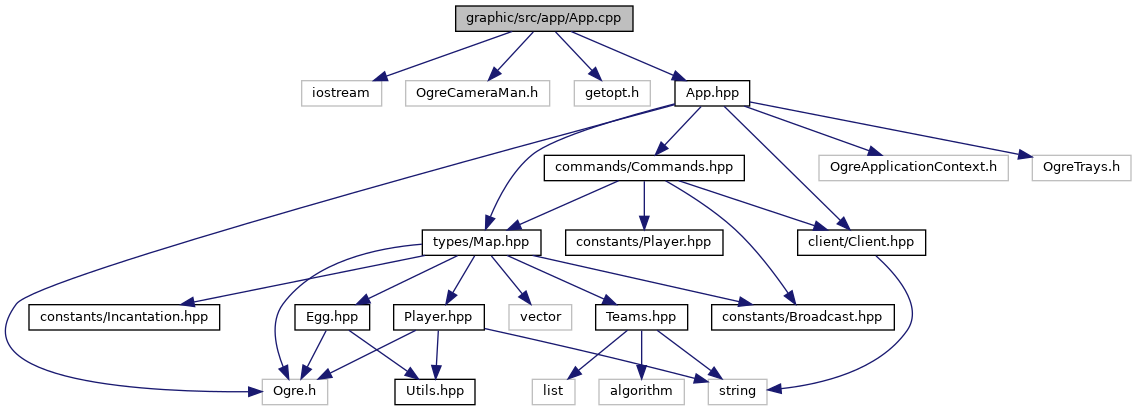
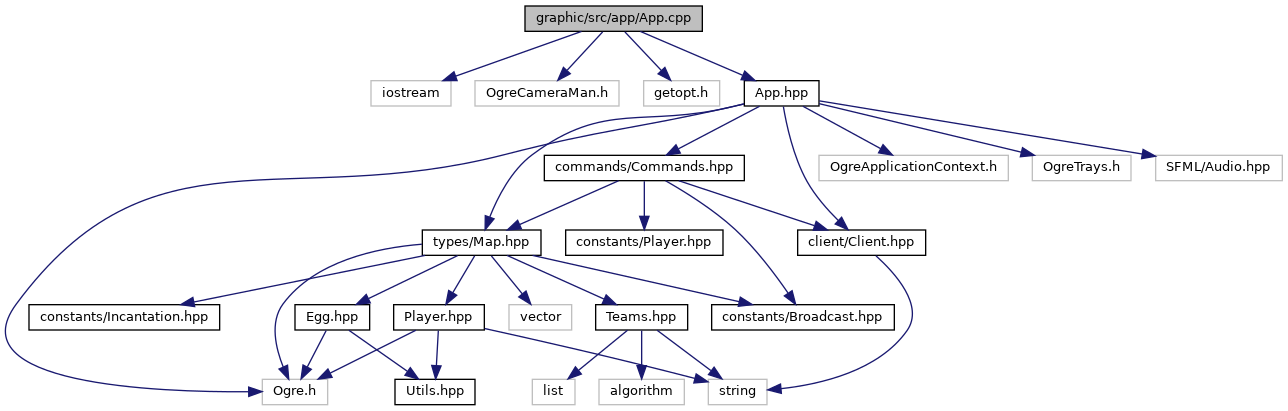
Deploying to gh-pages from @ G-Epitech/DFMY-Zappy@6fedb0bab784ef77f3127b5a26064aef47e51e65 🚀

diff --git a/App_8hpp_source.html b/App_8hpp_source.html
@@ -81,81 +81,88 @@ $(function() {
 <div class="line"><a name="l00016"></a><span class="lineno">   16</span>&#160;<span class="preprocessor">#include &lt;Ogre.h&gt;</span></div>
 <div class="line"><a name="l00017"></a><span class="lineno">   17</span>&#160;<span class="preprocessor">#include &lt;OgreApplicationContext.h&gt;</span></div>
 <div class="line"><a name="l00018"></a><span class="lineno">   18</span>&#160;<span class="preprocessor">#include &lt;OgreTrays.h&gt;</span></div>
-<div class="line"><a name="l00019"></a><span class="lineno">   19</span>&#160;<span class="preprocessor">#include &quot;<a class="code" href="Client_8hpp.html">client/Client.hpp</a>&quot;</span></div>
-<div class="line"><a name="l00020"></a><span class="lineno">   20</span>&#160;<span class="preprocessor">#include &quot;<a class="code" href="Map_8hpp.html">types/Map.hpp</a>&quot;</span></div>
-<div class="line"><a name="l00021"></a><span class="lineno">   21</span>&#160;<span class="preprocessor">#include &quot;<a class="code" href="Commands_8hpp.html">commands/Commands.hpp</a>&quot;</span></div>
-<div class="line"><a name="l00022"></a><span class="lineno">   22</span>&#160; </div>
-<div class="line"><a name="l00023"></a><span class="lineno"><a class="line" href="classApp.html">   23</a></span>&#160;<span class="keyword">class </span><a class="code" href="classApp.html">App</a> : <span class="keyword">public</span> OgreBites::ApplicationContext, <span class="keyword">public</span> OgreBites::InputListener {</div>
-<div class="line"><a name="l00024"></a><span class="lineno">   24</span>&#160;<span class="keyword">public</span>:</div>
-<div class="line"><a name="l00025"></a><span class="lineno">   25</span>&#160; </div>
-<div class="line"><a name="l00026"></a><span class="lineno">   26</span>&#160;    <span class="comment">// @brief Options of the application</span></div>
-<div class="line"><a name="l00027"></a><span class="lineno"><a class="line" href="structApp_1_1Options.html">   27</a></span>&#160;    <span class="keyword">typedef</span> <span class="keyword">struct </span><a class="code" href="structApp_1_1Options.html">Options</a> {</div>
-<div class="line"><a name="l00028"></a><span class="lineno">   28</span>&#160;        <span class="comment">// @brief Host of the server</span></div>
-<div class="line"><a name="l00029"></a><span class="lineno"><a class="line" href="group__graphic__app.html#gafd98e218ec25273b0e3918a06d4c1680">   29</a></span>&#160;        std::string <a class="code" href="group__graphic__app.html#gafd98e218ec25273b0e3918a06d4c1680">host</a>;</div>
-<div class="line"><a name="l00030"></a><span class="lineno">   30</span>&#160;        <span class="comment">// @brief Port of the server</span></div>
-<div class="line"><a name="l00031"></a><span class="lineno"><a class="line" href="group__graphic__app.html#gacc12f8ef0d098cc356916396c06f3095">   31</a></span>&#160;        <span class="keywordtype">int</span> <a class="code" href="group__graphic__app.html#gacc12f8ef0d098cc356916396c06f3095">port</a>;</div>
-<div class="line"><a name="l00032"></a><span class="lineno"><a class="line" href="group__graphic__app.html#gaab167e9ad115fd61bff470c31e5d380c">   32</a></span>&#160;    } <a class="code" href="group__graphic__app.html#gaab167e9ad115fd61bff470c31e5d380c">Options</a>;</div>
-<div class="line"><a name="l00033"></a><span class="lineno">   33</span>&#160; </div>
-<div class="line"><a name="l00037"></a><span class="lineno">   37</span>&#160;    <a class="code" href="group__graphic__app.html#gacb8cbf3e285b91d0170ffe87df5989c5">App</a>();</div>
-<div class="line"><a name="l00038"></a><span class="lineno">   38</span>&#160; </div>
-<div class="line"><a name="l00042"></a><span class="lineno">   42</span>&#160;    <span class="keywordtype">void</span> <a class="code" href="group__graphic__app.html#gaf41416c277fed01fe9c96c437afd41dc">setup</a>() <span class="keyword">override</span>;</div>
-<div class="line"><a name="l00043"></a><span class="lineno">   43</span>&#160; </div>
-<div class="line"><a name="l00050"></a><span class="lineno">   50</span>&#160;    <span class="keywordtype">bool</span> <a class="code" href="group__graphic__app.html#ga1cbe79e1660af8ef17f5a3fb948e7f66">parseOptions</a>(<span class="keywordtype">int</span> ac, <span class="keywordtype">char</span> **av);</div>
-<div class="line"><a name="l00051"></a><span class="lineno">   51</span>&#160; </div>
-<div class="line"><a name="l00056"></a><span class="lineno">   56</span>&#160;    <span class="keywordtype">bool</span> <a class="code" href="group__graphic__app.html#ga26cb4a0f0e6b4b5622c5188b6a51c7ce">establishConnection</a>();</div>
-<div class="line"><a name="l00057"></a><span class="lineno">   57</span>&#160; </div>
-<div class="line"><a name="l00063"></a><span class="lineno">   63</span>&#160;    <span class="keywordtype">bool</span> <a class="code" href="group__graphic__app.html#ga2532336d5fcfdb7c22a66ee5efbe386a">keyPressed</a>(<span class="keyword">const</span> OgreBites::KeyboardEvent &amp;evt) <span class="keyword">override</span>;</div>
-<div class="line"><a name="l00064"></a><span class="lineno">   64</span>&#160; </div>
-<div class="line"><a name="l00070"></a><span class="lineno">   70</span>&#160;    <span class="keywordtype">bool</span> <a class="code" href="group__graphic__app.html#ga82bd1c8e61e94214b9b178388b4cbf92">frameRenderingQueued</a>(<span class="keyword">const</span> Ogre::FrameEvent &amp;evt) <span class="keyword">override</span>;</div>
-<div class="line"><a name="l00071"></a><span class="lineno">   71</span>&#160; </div>
-<div class="line"><a name="l00077"></a><span class="lineno">   77</span>&#160;    <span class="keywordtype">bool</span> <a class="code" href="group__graphic__app.html#gafb19942ef7c8dd2b0ff8155e3522b4f9">frameEnded</a>(<span class="keyword">const</span> Ogre::FrameEvent &amp;evt) <span class="keyword">override</span>;</div>
-<div class="line"><a name="l00078"></a><span class="lineno">   78</span>&#160; </div>
-<div class="line"><a name="l00079"></a><span class="lineno">   79</span>&#160;<span class="keyword">private</span>:</div>
-<div class="line"><a name="l00081"></a><span class="lineno">   81</span>&#160;    <a class="code" href="classClient.html">Client</a> _client;</div>
-<div class="line"><a name="l00082"></a><span class="lineno">   82</span>&#160; </div>
-<div class="line"><a name="l00084"></a><span class="lineno">   84</span>&#160;    OgreBites::TrayManager *trayMgr;</div>
-<div class="line"><a name="l00085"></a><span class="lineno">   85</span>&#160; </div>
-<div class="line"><a name="l00087"></a><span class="lineno">   87</span>&#160;    Ogre::SceneManager *scnMgr;</div>
-<div class="line"><a name="l00088"></a><span class="lineno">   88</span>&#160; </div>
-<div class="line"><a name="l00090"></a><span class="lineno">   90</span>&#160;    <a class="code" href="structMap.html">Map</a> _map;</div>
-<div class="line"><a name="l00091"></a><span class="lineno">   91</span>&#160; </div>
-<div class="line"><a name="l00093"></a><span class="lineno">   93</span>&#160;    std::map&lt;std::string, std::function&lt;void(std::string &amp;, <a class="code" href="structMap.html">Map</a> &amp;, Ogre::SceneManager *, <a class="code" href="classClient.html">Client</a> &amp;)&gt;&gt; _commands;</div>
-<div class="line"><a name="l00094"></a><span class="lineno">   94</span>&#160; </div>
-<div class="line"><a name="l00096"></a><span class="lineno">   96</span>&#160;    <a class="code" href="group__graphic__app.html#gaab167e9ad115fd61bff470c31e5d380c">Options</a> _options;</div>
-<div class="line"><a name="l00097"></a><span class="lineno">   97</span>&#160; </div>
-<div class="line"><a name="l00101"></a><span class="lineno">  101</span>&#160;    <span class="keyword">static</span> <span class="keywordtype">void</span> _loadResources();</div>
-<div class="line"><a name="l00102"></a><span class="lineno">  102</span>&#160; </div>
-<div class="line"><a name="l00106"></a><span class="lineno">  106</span>&#160;    <span class="keywordtype">void</span> _setupCamera();</div>
-<div class="line"><a name="l00107"></a><span class="lineno">  107</span>&#160; </div>
-<div class="line"><a name="l00111"></a><span class="lineno">  111</span>&#160;    <span class="keywordtype">void</span> _setupMaterials();</div>
-<div class="line"><a name="l00112"></a><span class="lineno">  112</span>&#160; </div>
-<div class="line"><a name="l00117"></a><span class="lineno">  117</span>&#160;    <span class="keywordtype">void</span> _updateMap(std::string &amp;command);</div>
-<div class="line"><a name="l00118"></a><span class="lineno">  118</span>&#160; </div>
-<div class="line"><a name="l00123"></a><span class="lineno">  123</span>&#160;    <span class="keywordtype">void</span> _updateBroadcastCircles(<span class="keyword">const</span> Ogre::FrameEvent &amp;evt);</div>
-<div class="line"><a name="l00124"></a><span class="lineno">  124</span>&#160; </div>
-<div class="line"><a name="l00129"></a><span class="lineno">  129</span>&#160;    <span class="keywordtype">void</span> _updateIncantationSpheres(<span class="keyword">const</span> Ogre::FrameEvent &amp;evt);</div>
-<div class="line"><a name="l00130"></a><span class="lineno">  130</span>&#160; </div>
-<div class="line"><a name="l00138"></a><span class="lineno">  138</span>&#160;    <span class="keywordtype">void</span> _updateSphere(Ogre::ManualObject* obj, <span class="keywordtype">float</span> radius, <span class="keywordtype">int</span> rings = <a class="code" href="Broadcast_8hpp.html#ac927eb2998a566a000495a78509bb25c">BROADCAST_CIRCLE_SEGMENTS</a>, <span class="keywordtype">int</span> segments = <a class="code" href="Broadcast_8hpp.html#ac927eb2998a566a000495a78509bb25c">BROADCAST_CIRCLE_SEGMENTS</a>);</div>
-<div class="line"><a name="l00139"></a><span class="lineno">  139</span>&#160; </div>
-<div class="line"><a name="l00143"></a><span class="lineno">  143</span>&#160;     <span class="keyword">static</span> <span class="keywordtype">void</span> _printUsage() noexcept;</div>
-<div class="line"><a name="l00144"></a><span class="lineno">  144</span>&#160;};</div>
+<div class="line"><a name="l00019"></a><span class="lineno">   19</span>&#160;<span class="preprocessor">#include &lt;SFML/Audio.hpp&gt;</span></div>
+<div class="line"><a name="l00020"></a><span class="lineno">   20</span>&#160;<span class="preprocessor">#include &quot;<a class="code" href="Client_8hpp.html">client/Client.hpp</a>&quot;</span></div>
+<div class="line"><a name="l00021"></a><span class="lineno">   21</span>&#160;<span class="preprocessor">#include &quot;<a class="code" href="Map_8hpp.html">types/Map.hpp</a>&quot;</span></div>
+<div class="line"><a name="l00022"></a><span class="lineno">   22</span>&#160;<span class="preprocessor">#include &quot;<a class="code" href="Commands_8hpp.html">commands/Commands.hpp</a>&quot;</span></div>
+<div class="line"><a name="l00023"></a><span class="lineno">   23</span>&#160; </div>
+<div class="line"><a name="l00024"></a><span class="lineno"><a class="line" href="classApp.html">   24</a></span>&#160;<span class="keyword">class </span><a class="code" href="classApp.html">App</a> : <span class="keyword">public</span> OgreBites::ApplicationContext, <span class="keyword">public</span> OgreBites::InputListener {</div>
+<div class="line"><a name="l00025"></a><span class="lineno">   25</span>&#160;<span class="keyword">public</span>:</div>
+<div class="line"><a name="l00026"></a><span class="lineno">   26</span>&#160; </div>
+<div class="line"><a name="l00027"></a><span class="lineno">   27</span>&#160;    <span class="comment">// @brief Options of the application</span></div>
+<div class="line"><a name="l00028"></a><span class="lineno"><a class="line" href="structApp_1_1Options.html">   28</a></span>&#160;    <span class="keyword">typedef</span> <span class="keyword">struct </span><a class="code" href="structApp_1_1Options.html">Options</a> {</div>
+<div class="line"><a name="l00029"></a><span class="lineno">   29</span>&#160;        <span class="comment">// @brief Host of the server</span></div>
+<div class="line"><a name="l00030"></a><span class="lineno"><a class="line" href="group__graphic__app.html#gafd98e218ec25273b0e3918a06d4c1680">   30</a></span>&#160;        std::string <a class="code" href="group__graphic__app.html#gafd98e218ec25273b0e3918a06d4c1680">host</a>;</div>
+<div class="line"><a name="l00031"></a><span class="lineno">   31</span>&#160;        <span class="comment">// @brief Port of the server</span></div>
+<div class="line"><a name="l00032"></a><span class="lineno"><a class="line" href="group__graphic__app.html#gacc12f8ef0d098cc356916396c06f3095">   32</a></span>&#160;        <span class="keywordtype">int</span> <a class="code" href="group__graphic__app.html#gacc12f8ef0d098cc356916396c06f3095">port</a>;</div>
+<div class="line"><a name="l00033"></a><span class="lineno"><a class="line" href="group__graphic__app.html#gaab167e9ad115fd61bff470c31e5d380c">   33</a></span>&#160;    } <a class="code" href="group__graphic__app.html#gaab167e9ad115fd61bff470c31e5d380c">Options</a>;</div>
+<div class="line"><a name="l00034"></a><span class="lineno">   34</span>&#160; </div>
+<div class="line"><a name="l00038"></a><span class="lineno">   38</span>&#160;    <a class="code" href="group__graphic__app.html#gacb8cbf3e285b91d0170ffe87df5989c5">App</a>();</div>
+<div class="line"><a name="l00039"></a><span class="lineno">   39</span>&#160; </div>
+<div class="line"><a name="l00043"></a><span class="lineno">   43</span>&#160;    <span class="keywordtype">void</span> <a class="code" href="group__graphic__app.html#gaf41416c277fed01fe9c96c437afd41dc">setup</a>() <span class="keyword">override</span>;</div>
+<div class="line"><a name="l00044"></a><span class="lineno">   44</span>&#160; </div>
+<div class="line"><a name="l00051"></a><span class="lineno">   51</span>&#160;    <span class="keywordtype">bool</span> <a class="code" href="group__graphic__app.html#ga1cbe79e1660af8ef17f5a3fb948e7f66">parseOptions</a>(<span class="keywordtype">int</span> ac, <span class="keywordtype">char</span> **av);</div>
+<div class="line"><a name="l00052"></a><span class="lineno">   52</span>&#160; </div>
+<div class="line"><a name="l00057"></a><span class="lineno">   57</span>&#160;    <span class="keywordtype">bool</span> <a class="code" href="group__graphic__app.html#ga26cb4a0f0e6b4b5622c5188b6a51c7ce">establishConnection</a>();</div>
+<div class="line"><a name="l00058"></a><span class="lineno">   58</span>&#160; </div>
+<div class="line"><a name="l00064"></a><span class="lineno">   64</span>&#160;    <span class="keywordtype">bool</span> <a class="code" href="group__graphic__app.html#ga2532336d5fcfdb7c22a66ee5efbe386a">keyPressed</a>(<span class="keyword">const</span> OgreBites::KeyboardEvent &amp;evt) <span class="keyword">override</span>;</div>
+<div class="line"><a name="l00065"></a><span class="lineno">   65</span>&#160; </div>
+<div class="line"><a name="l00071"></a><span class="lineno">   71</span>&#160;    <span class="keywordtype">bool</span> <a class="code" href="group__graphic__app.html#ga82bd1c8e61e94214b9b178388b4cbf92">frameRenderingQueued</a>(<span class="keyword">const</span> Ogre::FrameEvent &amp;evt) <span class="keyword">override</span>;</div>
+<div class="line"><a name="l00072"></a><span class="lineno">   72</span>&#160; </div>
+<div class="line"><a name="l00078"></a><span class="lineno">   78</span>&#160;    <span class="keywordtype">bool</span> <a class="code" href="group__graphic__app.html#gafb19942ef7c8dd2b0ff8155e3522b4f9">frameEnded</a>(<span class="keyword">const</span> Ogre::FrameEvent &amp;evt) <span class="keyword">override</span>;</div>
+<div class="line"><a name="l00079"></a><span class="lineno">   79</span>&#160; </div>
+<div class="line"><a name="l00080"></a><span class="lineno">   80</span>&#160;<span class="keyword">private</span>:</div>
+<div class="line"><a name="l00082"></a><span class="lineno">   82</span>&#160;    <a class="code" href="classClient.html">Client</a> _client;</div>
+<div class="line"><a name="l00083"></a><span class="lineno">   83</span>&#160; </div>
+<div class="line"><a name="l00085"></a><span class="lineno">   85</span>&#160;    OgreBites::TrayManager *trayMgr;</div>
+<div class="line"><a name="l00086"></a><span class="lineno">   86</span>&#160; </div>
+<div class="line"><a name="l00088"></a><span class="lineno">   88</span>&#160;    Ogre::SceneManager *scnMgr;</div>
+<div class="line"><a name="l00089"></a><span class="lineno">   89</span>&#160; </div>
+<div class="line"><a name="l00091"></a><span class="lineno">   91</span>&#160;    <a class="code" href="structMap.html">Map</a> _map;</div>
+<div class="line"><a name="l00092"></a><span class="lineno">   92</span>&#160; </div>
+<div class="line"><a name="l00094"></a><span class="lineno">   94</span>&#160;    std::map&lt;std::string, std::function&lt;void(std::string &amp;, <a class="code" href="structMap.html">Map</a> &amp;, Ogre::SceneManager *, <a class="code" href="classClient.html">Client</a> &amp;)&gt;&gt; _commands;</div>
+<div class="line"><a name="l00095"></a><span class="lineno">   95</span>&#160; </div>
+<div class="line"><a name="l00097"></a><span class="lineno">   97</span>&#160;    <a class="code" href="group__graphic__app.html#gaab167e9ad115fd61bff470c31e5d380c">Options</a> _options;</div>
+<div class="line"><a name="l00098"></a><span class="lineno">   98</span>&#160; </div>
+<div class="line"><a name="l00099"></a><span class="lineno">   99</span>&#160;    sf::Music _background_music;</div>
+<div class="line"><a name="l00100"></a><span class="lineno">  100</span>&#160; </div>
+<div class="line"><a name="l00104"></a><span class="lineno">  104</span>&#160;    <span class="keyword">static</span> <span class="keywordtype">void</span> _loadResources();</div>
+<div class="line"><a name="l00105"></a><span class="lineno">  105</span>&#160; </div>
+<div class="line"><a name="l00109"></a><span class="lineno">  109</span>&#160;    <span class="keywordtype">void</span> _setupCamera();</div>
+<div class="line"><a name="l00110"></a><span class="lineno">  110</span>&#160; </div>
+<div class="line"><a name="l00114"></a><span class="lineno">  114</span>&#160;    <span class="keywordtype">void</span> _setupMaterials();</div>
+<div class="line"><a name="l00115"></a><span class="lineno">  115</span>&#160; </div>
+<div class="line"><a name="l00119"></a><span class="lineno">  119</span>&#160;    <span class="keywordtype">void</span> _setupLights();</div>
+<div class="line"><a name="l00120"></a><span class="lineno">  120</span>&#160; </div>
+<div class="line"><a name="l00124"></a><span class="lineno">  124</span>&#160;    <span class="keywordtype">void</span> _setupAudio();</div>
+<div class="line"><a name="l00125"></a><span class="lineno">  125</span>&#160; </div>
+<div class="line"><a name="l00130"></a><span class="lineno">  130</span>&#160;    <span class="keywordtype">void</span> _updateMap(std::string &amp;command);</div>
+<div class="line"><a name="l00131"></a><span class="lineno">  131</span>&#160; </div>
+<div class="line"><a name="l00136"></a><span class="lineno">  136</span>&#160;    <span class="keywordtype">void</span> _updateBroadcastCircles(<span class="keyword">const</span> Ogre::FrameEvent &amp;evt);</div>
+<div class="line"><a name="l00137"></a><span class="lineno">  137</span>&#160; </div>
+<div class="line"><a name="l00142"></a><span class="lineno">  142</span>&#160;    <span class="keywordtype">void</span> _updateIncantationSpheres(<span class="keyword">const</span> Ogre::FrameEvent &amp;evt);</div>
+<div class="line"><a name="l00143"></a><span class="lineno">  143</span>&#160; </div>
+<div class="line"><a name="l00151"></a><span class="lineno">  151</span>&#160;    <span class="keywordtype">void</span> _updateSphere(Ogre::ManualObject* obj, <span class="keywordtype">float</span> radius, <span class="keywordtype">int</span> rings = <a class="code" href="Broadcast_8hpp.html#ac927eb2998a566a000495a78509bb25c">BROADCAST_CIRCLE_SEGMENTS</a>, <span class="keywordtype">int</span> segments = <a class="code" href="Broadcast_8hpp.html#ac927eb2998a566a000495a78509bb25c">BROADCAST_CIRCLE_SEGMENTS</a>);</div>
+<div class="line"><a name="l00152"></a><span class="lineno">  152</span>&#160; </div>
+<div class="line"><a name="l00156"></a><span class="lineno">  156</span>&#160;     <span class="keyword">static</span> <span class="keywordtype">void</span> _printUsage() noexcept;</div>
+<div class="line"><a name="l00157"></a><span class="lineno">  157</span>&#160;};</div>
 <div class="ttc" id="aBroadcast_8hpp_html_ac927eb2998a566a000495a78509bb25c"><div class="ttname"><a href="Broadcast_8hpp.html#ac927eb2998a566a000495a78509bb25c">BROADCAST_CIRCLE_SEGMENTS</a></div><div class="ttdeci">#define BROADCAST_CIRCLE_SEGMENTS</div><div class="ttdef"><b>Definition:</b> Broadcast.hpp:12</div></div>
 <div class="ttc" id="aClient_8hpp_html"><div class="ttname"><a href="Client_8hpp.html">Client.hpp</a></div></div>
 <div class="ttc" id="aCommands_8hpp_html"><div class="ttname"><a href="Commands_8hpp.html">Commands.hpp</a></div></div>
 <div class="ttc" id="aMap_8hpp_html"><div class="ttname"><a href="Map_8hpp.html">Map.hpp</a></div></div>
-<div class="ttc" id="aclassApp_html"><div class="ttname"><a href="classApp.html">App</a></div><div class="ttdef"><b>Definition:</b> App.hpp:23</div></div>
+<div class="ttc" id="aclassApp_html"><div class="ttname"><a href="classApp.html">App</a></div><div class="ttdef"><b>Definition:</b> App.hpp:24</div></div>
 <div class="ttc" id="aclassClient_html"><div class="ttname"><a href="classClient.html">Client</a></div><div class="ttdef"><b>Definition:</b> Client.hpp:12</div></div>
-<div class="ttc" id="agroup__graphic__app_html_ga1cbe79e1660af8ef17f5a3fb948e7f66"><div class="ttname"><a href="group__graphic__app.html#ga1cbe79e1660af8ef17f5a3fb948e7f66">App::parseOptions</a></div><div class="ttdeci">bool parseOptions(int ac, char **av)</div><div class="ttdoc">Parse the cli arguments.</div><div class="ttdef"><b>Definition:</b> App.cpp:239</div></div>
-<div class="ttc" id="agroup__graphic__app_html_ga2532336d5fcfdb7c22a66ee5efbe386a"><div class="ttname"><a href="group__graphic__app.html#ga2532336d5fcfdb7c22a66ee5efbe386a">App::keyPressed</a></div><div class="ttdeci">bool keyPressed(const OgreBites::KeyboardEvent &amp;evt) override</div><div class="ttdoc">Key pressed event.</div><div class="ttdef"><b>Definition:</b> App.cpp:137</div></div>
-<div class="ttc" id="agroup__graphic__app_html_ga26cb4a0f0e6b4b5622c5188b6a51c7ce"><div class="ttname"><a href="group__graphic__app.html#ga26cb4a0f0e6b4b5622c5188b6a51c7ce">App::establishConnection</a></div><div class="ttdeci">bool establishConnection()</div><div class="ttdoc">Establish a connection to the server.</div><div class="ttdef"><b>Definition:</b> App.cpp:261</div></div>
-<div class="ttc" id="agroup__graphic__app_html_ga82bd1c8e61e94214b9b178388b4cbf92"><div class="ttname"><a href="group__graphic__app.html#ga82bd1c8e61e94214b9b178388b4cbf92">App::frameRenderingQueued</a></div><div class="ttdeci">bool frameRenderingQueued(const Ogre::FrameEvent &amp;evt) override</div><div class="ttdoc">Frame rendering queued event.</div><div class="ttdef"><b>Definition:</b> App.cpp:96</div></div>
+<div class="ttc" id="agroup__graphic__app_html_ga1cbe79e1660af8ef17f5a3fb948e7f66"><div class="ttname"><a href="group__graphic__app.html#ga1cbe79e1660af8ef17f5a3fb948e7f66">App::parseOptions</a></div><div class="ttdeci">bool parseOptions(int ac, char **av)</div><div class="ttdoc">Parse the cli arguments.</div><div class="ttdef"><b>Definition:</b> App.cpp:262</div></div>
+<div class="ttc" id="agroup__graphic__app_html_ga2532336d5fcfdb7c22a66ee5efbe386a"><div class="ttname"><a href="group__graphic__app.html#ga2532336d5fcfdb7c22a66ee5efbe386a">App::keyPressed</a></div><div class="ttdeci">bool keyPressed(const OgreBites::KeyboardEvent &amp;evt) override</div><div class="ttdoc">Key pressed event.</div><div class="ttdef"><b>Definition:</b> App.cpp:160</div></div>
+<div class="ttc" id="agroup__graphic__app_html_ga26cb4a0f0e6b4b5622c5188b6a51c7ce"><div class="ttname"><a href="group__graphic__app.html#ga26cb4a0f0e6b4b5622c5188b6a51c7ce">App::establishConnection</a></div><div class="ttdeci">bool establishConnection()</div><div class="ttdoc">Establish a connection to the server.</div><div class="ttdef"><b>Definition:</b> App.cpp:284</div></div>
+<div class="ttc" id="agroup__graphic__app_html_ga82bd1c8e61e94214b9b178388b4cbf92"><div class="ttname"><a href="group__graphic__app.html#ga82bd1c8e61e94214b9b178388b4cbf92">App::frameRenderingQueued</a></div><div class="ttdeci">bool frameRenderingQueued(const Ogre::FrameEvent &amp;evt) override</div><div class="ttdoc">Frame rendering queued event.</div><div class="ttdef"><b>Definition:</b> App.cpp:119</div></div>
 <div class="ttc" id="agroup__graphic__app_html_gaab167e9ad115fd61bff470c31e5d380c"><div class="ttname"><a href="group__graphic__app.html#gaab167e9ad115fd61bff470c31e5d380c">App::Options</a></div><div class="ttdeci">struct App::Options Options</div></div>
 <div class="ttc" id="agroup__graphic__app_html_gacb8cbf3e285b91d0170ffe87df5989c5"><div class="ttname"><a href="group__graphic__app.html#gacb8cbf3e285b91d0170ffe87df5989c5">App::App</a></div><div class="ttdeci">App()</div><div class="ttdoc">Construct a new App object.</div><div class="ttdef"><b>Definition:</b> App.cpp:16</div></div>
-<div class="ttc" id="agroup__graphic__app_html_gacc12f8ef0d098cc356916396c06f3095"><div class="ttname"><a href="group__graphic__app.html#gacc12f8ef0d098cc356916396c06f3095">App::Options::port</a></div><div class="ttdeci">int port</div><div class="ttdef"><b>Definition:</b> App.hpp:31</div></div>
+<div class="ttc" id="agroup__graphic__app_html_gacc12f8ef0d098cc356916396c06f3095"><div class="ttname"><a href="group__graphic__app.html#gacc12f8ef0d098cc356916396c06f3095">App::Options::port</a></div><div class="ttdeci">int port</div><div class="ttdef"><b>Definition:</b> App.hpp:32</div></div>
 <div class="ttc" id="agroup__graphic__app_html_gaf41416c277fed01fe9c96c437afd41dc"><div class="ttname"><a href="group__graphic__app.html#gaf41416c277fed01fe9c96c437afd41dc">App::setup</a></div><div class="ttdeci">void setup() override</div><div class="ttdoc">Setup the application.</div><div class="ttdef"><b>Definition:</b> App.cpp:50</div></div>
-<div class="ttc" id="agroup__graphic__app_html_gafb19942ef7c8dd2b0ff8155e3522b4f9"><div class="ttname"><a href="group__graphic__app.html#gafb19942ef7c8dd2b0ff8155e3522b4f9">App::frameEnded</a></div><div class="ttdeci">bool frameEnded(const Ogre::FrameEvent &amp;evt) override</div><div class="ttdoc">Frame ended event.</div><div class="ttdef"><b>Definition:</b> App.cpp:102</div></div>
-<div class="ttc" id="agroup__graphic__app_html_gafd98e218ec25273b0e3918a06d4c1680"><div class="ttname"><a href="group__graphic__app.html#gafd98e218ec25273b0e3918a06d4c1680">App::Options::host</a></div><div class="ttdeci">std::string host</div><div class="ttdef"><b>Definition:</b> App.hpp:29</div></div>
-<div class="ttc" id="astructApp_1_1Options_html"><div class="ttname"><a href="structApp_1_1Options.html">App::Options</a></div><div class="ttdef"><b>Definition:</b> App.hpp:27</div></div>
+<div class="ttc" id="agroup__graphic__app_html_gafb19942ef7c8dd2b0ff8155e3522b4f9"><div class="ttname"><a href="group__graphic__app.html#gafb19942ef7c8dd2b0ff8155e3522b4f9">App::frameEnded</a></div><div class="ttdeci">bool frameEnded(const Ogre::FrameEvent &amp;evt) override</div><div class="ttdoc">Frame ended event.</div><div class="ttdef"><b>Definition:</b> App.cpp:125</div></div>
+<div class="ttc" id="agroup__graphic__app_html_gafd98e218ec25273b0e3918a06d4c1680"><div class="ttname"><a href="group__graphic__app.html#gafd98e218ec25273b0e3918a06d4c1680">App::Options::host</a></div><div class="ttdeci">std::string host</div><div class="ttdef"><b>Definition:</b> App.hpp:30</div></div>
+<div class="ttc" id="astructApp_1_1Options_html"><div class="ttname"><a href="structApp_1_1Options.html">App::Options</a></div><div class="ttdef"><b>Definition:</b> App.hpp:28</div></div>
 <div class="ttc" id="astructMap_html"><div class="ttname"><a href="structMap.html">Map</a></div><div class="ttdef"><b>Definition:</b> Map.hpp:39</div></div>
 </div><!-- fragment --></div><!-- contents -->
 <!-- start footer part -->

diff --git a/App_8hpp.html b/App_8hpp.html
@@ -74,6 +74,7 @@ $(function() {
 <div class="textblock"><code>#include &lt;Ogre.h&gt;</code><br />
 <code>#include &lt;OgreApplicationContext.h&gt;</code><br />
 <code>#include &lt;OgreTrays.h&gt;</code><br />
+<code>#include &lt;SFML/Audio.hpp&gt;</code><br />
 <code>#include &quot;<a class="el" href="Client_8hpp_source.html">client/Client.hpp</a>&quot;</code><br />
 <code>#include &quot;<a class="el" href="Map_8hpp_source.html">types/Map.hpp</a>&quot;</code><br />
 <code>#include &quot;<a class="el" href="Commands_8hpp_source.html">commands/Commands.hpp</a>&quot;</code><br />
@@ -82,10 +83,11 @@ Include dependency graph for App.hpp:</div>
 <div class="dyncontent">
 <div class="center"><img src="App_8hpp__incl.png" border="0" usemap="#agraphic_2src_2app_2App_8hpp" alt=""/></div>
 <map name="agraphic_2src_2app_2App_8hpp" id="agraphic_2src_2app_2App_8hpp">
-<area shape="rect" title=" " alt="" coords="623,5,802,32"/>
+<area shape="rect" title=" " alt="" coords="692,5,871,32"/>
 <area shape="rect" title=" " alt="" coords="262,304,328,331"/>
 <area shape="rect" title=" " alt="" coords="819,80,1008,107"/>
 <area shape="rect" title=" " alt="" coords="1032,80,1131,107"/>
+<area shape="rect" title=" " alt="" coords="1156,80,1282,107"/>
 <area shape="rect" href="Client_8hpp.html" title=" " alt="" coords="798,155,926,181"/>
 <area shape="rect" href="Map_8hpp.html" title=" " alt="" coords="422,155,541,181"/>
 <area shape="rect" href="Commands_8hpp.html" title=" " alt="" coords="544,80,744,107"/>

diff --git a/App_8cpp.html b/App_8cpp.html
@@ -78,14 +78,15 @@ Include dependency graph for App.cpp:</div>
 <div class="dyncontent">
 <div class="center"><img src="App_8cpp__incl.png" border="0" usemap="#agraphic_2src_2app_2App_8cpp" alt=""/></div>
 <map name="agraphic_2src_2app_2App_8cpp" id="agraphic_2src_2app_2App_8cpp">
-<area shape="rect" title=" " alt="" coords="456,5,633,32"/>
-<area shape="rect" title=" " alt="" coords="302,80,382,107"/>
-<area shape="rect" title=" " alt="" coords="406,80,550,107"/>
-<area shape="rect" title=" " alt="" coords="574,80,650,107"/>
-<area shape="rect" href="App_8hpp.html" title=" " alt="" coords="675,80,750,107"/>
+<area shape="rect" title=" " alt="" coords="525,5,702,32"/>
+<area shape="rect" title=" " alt="" coords="371,80,451,107"/>
+<area shape="rect" title=" " alt="" coords="475,80,619,107"/>
+<area shape="rect" title=" " alt="" coords="644,80,720,107"/>
+<area shape="rect" href="App_8hpp.html" title=" " alt="" coords="744,80,819,107"/>
 <area shape="rect" title=" " alt="" coords="262,379,328,405"/>
 <area shape="rect" title=" " alt="" coords="819,155,1008,181"/>
 <area shape="rect" title=" " alt="" coords="1032,155,1131,181"/>
+<area shape="rect" title=" " alt="" coords="1156,155,1282,181"/>
 <area shape="rect" href="Client_8hpp.html" title=" " alt="" coords="798,229,926,256"/>
 <area shape="rect" href="Map_8hpp.html" title=" " alt="" coords="422,229,541,256"/>
 <area shape="rect" href="Commands_8hpp.html" title=" " alt="" coords="544,155,744,181"/>

diff --git a/main_8cpp.html b/main_8cpp.html
@@ -78,12 +78,13 @@ Include dependency graph for main.cpp:</div>
 <div class="dyncontent">
 <div class="center"><img src="main_8cpp__incl.png" border="0" usemap="#agraphic_2src_2main_8cpp" alt=""/></div>
 <map name="agraphic_2src_2main_8cpp" id="agraphic_2src_2main_8cpp">
-<area shape="rect" title=" " alt="" coords="575,5,732,32"/>
-<area shape="rect" title=" " alt="" coords="556,80,636,107"/>
-<area shape="rect" href="App_8hpp.html" title=" " alt="" coords="661,80,764,107"/>
+<area shape="rect" title=" " alt="" coords="644,5,802,32"/>
+<area shape="rect" title=" " alt="" coords="626,80,706,107"/>
+<area shape="rect" href="App_8hpp.html" title=" " alt="" coords="730,80,833,107"/>
 <area shape="rect" title=" " alt="" coords="262,379,328,405"/>
 <area shape="rect" title=" " alt="" coords="819,155,1008,181"/>
 <area shape="rect" title=" " alt="" coords="1032,155,1131,181"/>
+<area shape="rect" title=" " alt="" coords="1156,155,1282,181"/>
 <area shape="rect" href="Client_8hpp.html" title=" " alt="" coords="798,229,926,256"/>
 <area shape="rect" href="Map_8hpp.html" title=" " alt="" coords="422,229,541,256"/>
 <area shape="rect" href="Commands_8hpp.html" title=" " alt="" coords="544,155,744,181"/>
